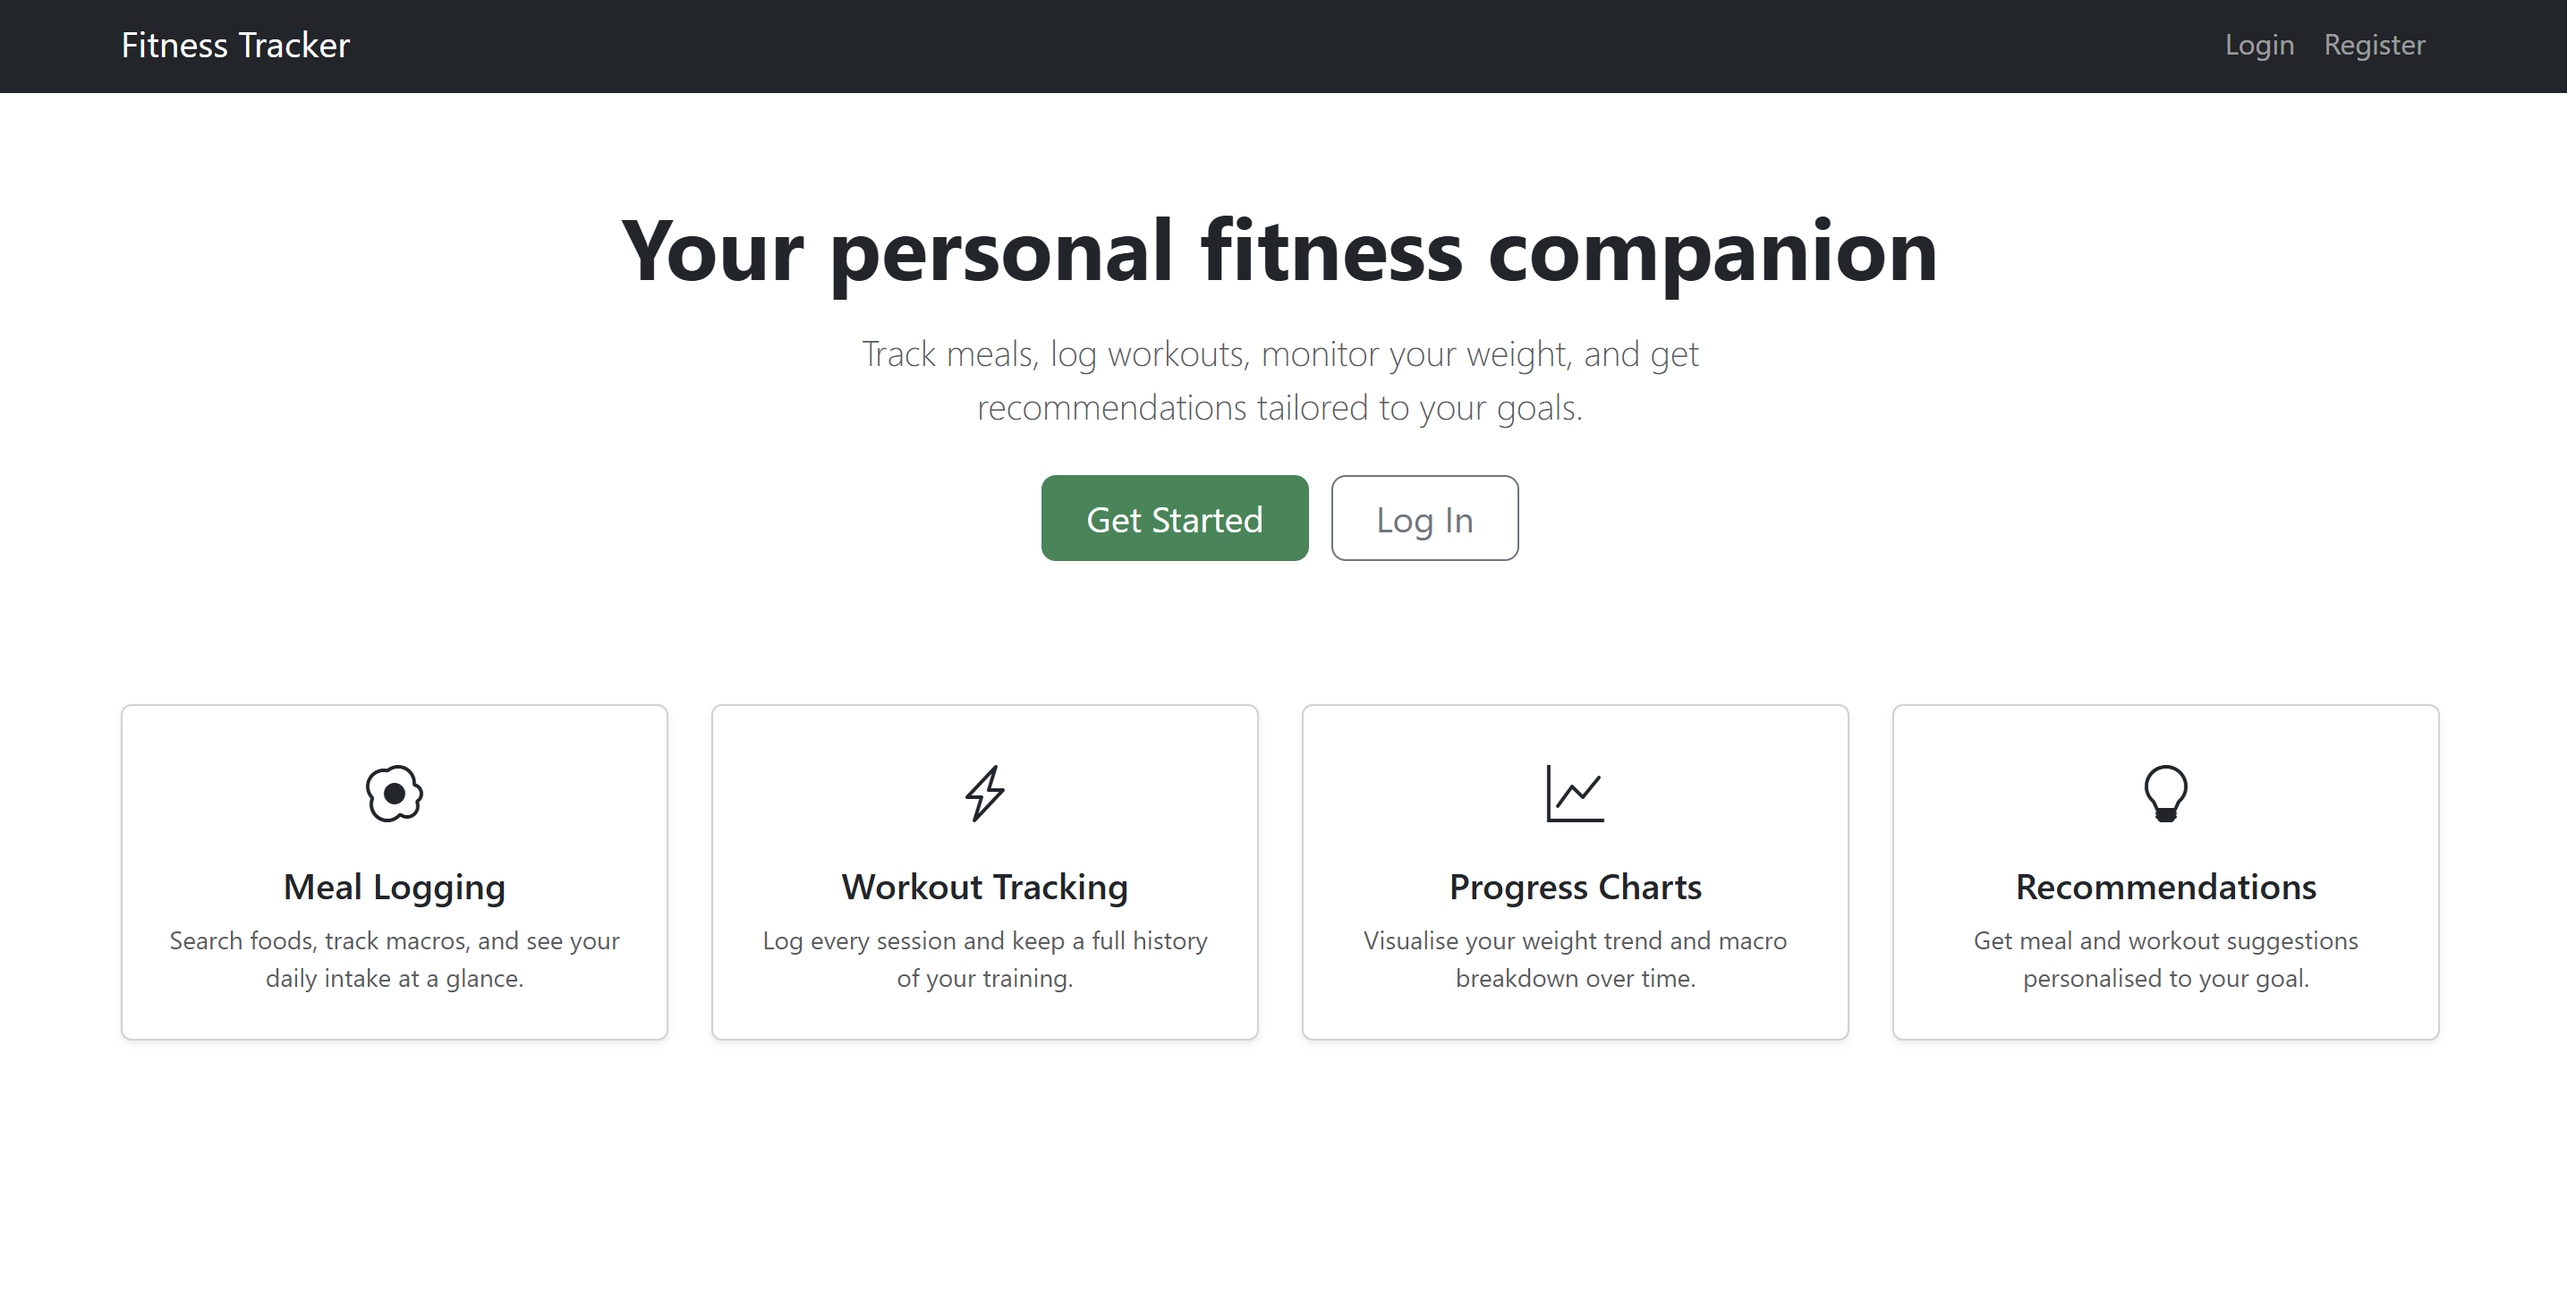
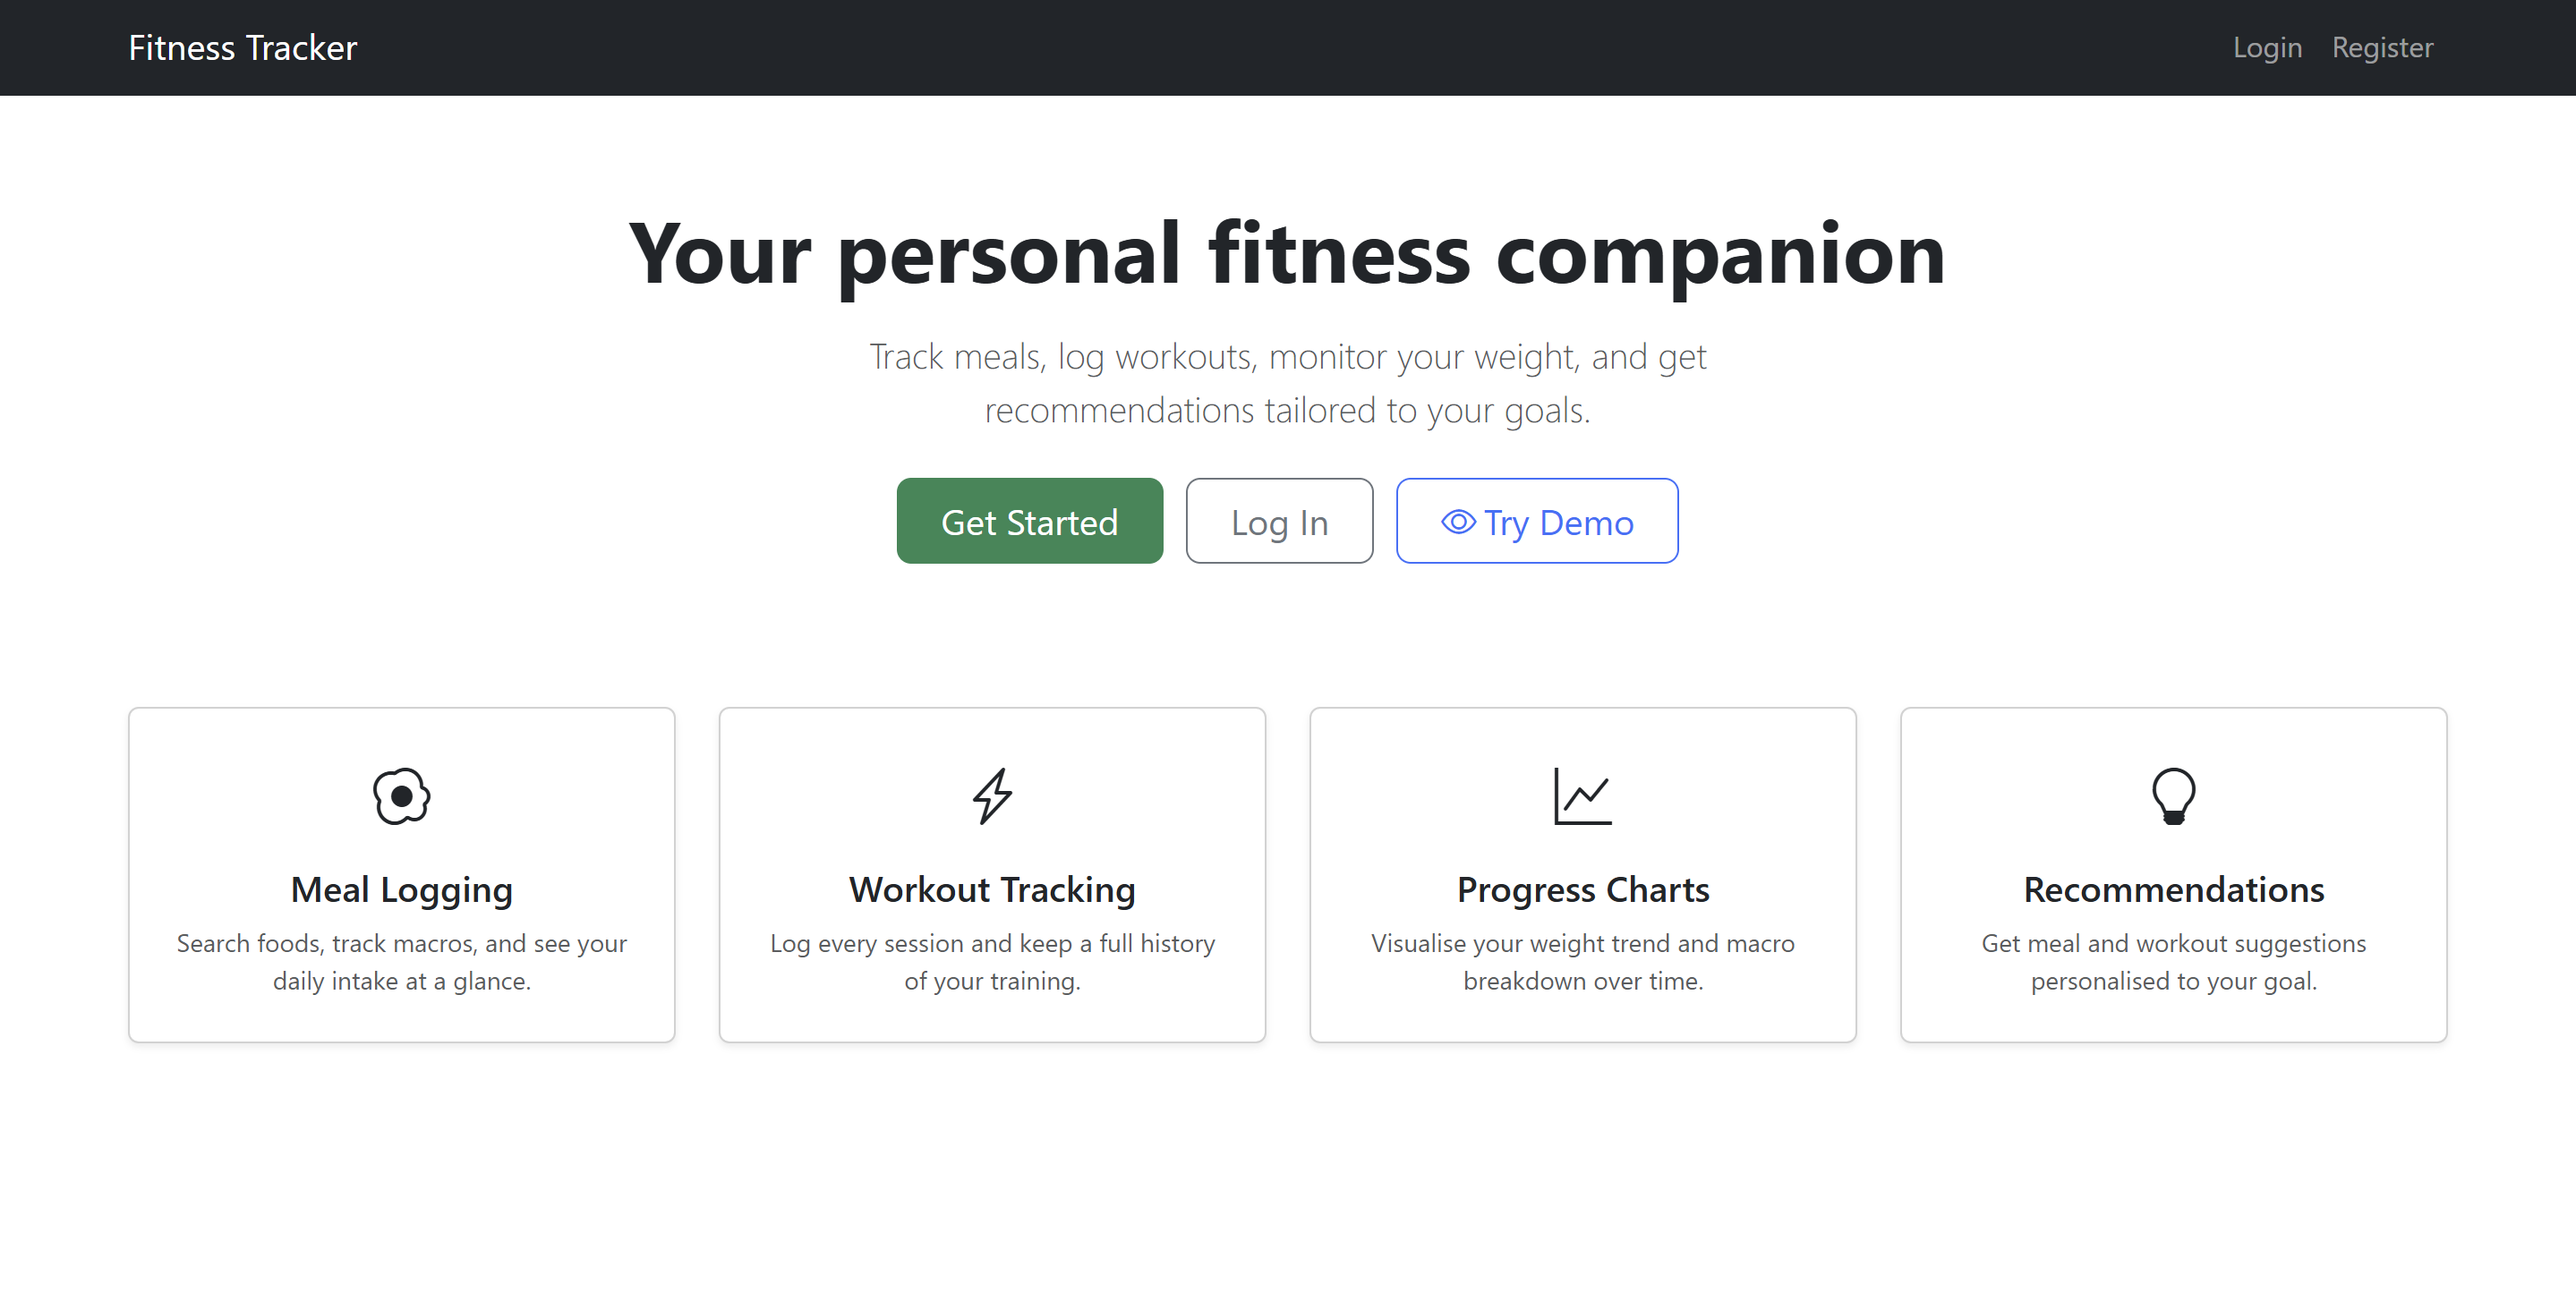
Implement demo account functionality and update seed data; add demo login and exit routes

diff --git a/app/templates/home.html b/app/templates/home.html
@@ -52,7 +52,10 @@
     Track meals, log workouts, monitor your weight, and get recommendations tailored to your goals.
   </p>
   <a href="{{ url_for('register') }}" class="btn btn-success btn-lg px-4 me-2">Get Started</a>
-  <a href="{{ url_for('login') }}" class="btn btn-outline-secondary btn-lg px-4">Log In</a>
+  <a href="{{ url_for('login') }}" class="btn btn-outline-secondary btn-lg px-4 me-2">Log In</a>
+  <a href="{{ url_for('demo_login') }}" class="btn btn-outline-primary btn-lg px-4">
+    <i class="bi bi-eye me-1"></i>Try Demo
+  </a>
 </div>
 
 <div class="row g-4 mt-2">

diff --git a/app/templates/user_dashboard.html b/app/templates/user_dashboard.html
@@ -1,6 +1,13 @@
 {% extends "base.html" %} {% block title %}Dashboard{% endblock %} {% block
 content %}
 
+{% if session.get('is_demo') %}
+<div class="alert alert-info d-flex justify-content-between align-items-center mb-4 py-2">
+  <span><i class="bi bi-eye me-2"></i><strong>Demo account</strong> — data is pre-filled for illustration. Changes won't affect anyone.</span>
+  <a href="{{ url_for('demo_exit') }}" class="btn btn-sm btn-info">Create your own account</a>
+</div>
+{% endif %}
+
 <h1 class="mb-4">Welcome, {{ user.name }}!</h1>
 
 <div class="row g-4">

diff --git a/app/templates/login.html b/app/templates/login.html
@@ -36,6 +36,16 @@
         <a href="{{ url_for('home') }}" class="btn btn-outline-secondary btn-sm">Back to Home</a>
       </div>
     </div>
+
+    <div class="card shadow-sm mt-3 border-0 bg-light">
+      <div class="card-body text-center py-3">
+        <p class="mb-2 small text-muted">Just want to look around?</p>
+        <a href="{{ url_for('demo_login') }}" class="btn btn-outline-success w-100">
+          <i class="bi bi-eye me-2"></i>Try the Demo
+        </a>
+      </div>
+    </div>
+
   </div>
 </div>
 

diff --git a/app/seed.py b/app/seed.py
@@ -1,0 +1,185 @@
+"""
+Demo account seeder.
+
+CLI usage:
+    flask seed-demo
+
+Railway usage (no shell access):
+    GET /admin/seed-demo?key=<SEED_KEY>   (set SEED_KEY env var on Railway)
+"""
+import random
+from datetime import datetime, timezone, timedelta
+from app import app, db
+from app.models import User, Meal, Workout, WeightLog
+
+DEMO_USERNAME = "demo"
+DEMO_PASSWORD = "demo1234"
+DEMO_EMAIL = "demo@fitnesstracker.app"
+
+
+# ---------------------------------------------------------------------------
+# Meal pool — realistic entries with macros per serving
+# ---------------------------------------------------------------------------
+MEALS = [
+    # (name, cal, protein, carbs, fats, meal_type)
+    ("Scrambled eggs & toast",          380, 24, 32, 14, "Breakfast"),
+    ("Oatmeal with banana",             320, 10, 58,  6, "Breakfast"),
+    ("Greek yogurt & granola",          290, 18, 38,  6, "Breakfast"),
+    ("Protein shake",                   210, 32,  8,  4, "Breakfast"),
+    ("Avocado toast & eggs",            420, 20, 36, 18, "Breakfast"),
+    ("Grilled chicken & rice",          520, 46, 52,  8, "Lunch"),
+    ("Turkey wrap",                     460, 34, 44, 12, "Lunch"),
+    ("Tuna salad sandwich",             410, 32, 38, 10, "Lunch"),
+    ("Chicken Caesar salad",            390, 38, 18, 16, "Lunch"),
+    ("Burrito bowl",                    580, 38, 64, 14, "Lunch"),
+    ("Salmon & sweet potato",           540, 42, 44, 14, "Dinner"),
+    ("Steak & roasted veg",             620, 52, 24, 28, "Dinner"),
+    ("Ground turkey pasta",             580, 44, 58, 12, "Dinner"),
+    ("Chicken stir-fry & rice",         510, 40, 52, 10, "Dinner"),
+    ("Shrimp tacos",                    490, 36, 48, 12, "Dinner"),
+    ("Cottage cheese & fruit",          180, 22, 18,  2, "Snack"),
+    ("Apple & peanut butter",           210,  6, 26, 10, "Snack"),
+    ("Protein bar",                     220, 20, 24,  6, "Snack"),
+    ("Almonds",                         170,  6,  6, 14, "Snack"),
+    ("Rice cakes & hummus",             190,  6, 28,  4, "Snack"),
+]
+
+# Heavier weekend options (push weekend average ~500 cal higher)
+WEEKEND_EXTRAS = [
+    ("Pancakes & syrup",                520, 12, 88, 14, "Breakfast"),
+    ("Bacon & egg bagel",               580, 30, 52, 22, "Breakfast"),
+    ("Burger & fries",                  880, 44, 80, 36, "Lunch"),
+    ("Pizza (2 slices)",                720, 30, 84, 24, "Dinner"),
+    ("Pasta with meat sauce",           680, 38, 72, 20, "Dinner"),
+    ("Ice cream",                       310,  5, 42, 14, "Snack"),
+    ("Chips & guac",                    380,  5, 42, 22, "Snack"),
+]
+
+WORKOUTS = [
+    ("Running",          35, 320),
+    ("Strength Training", 55, 380),
+    ("HIIT",             30, 360),
+    ("Cycling",          45, 340),
+    ("Strength Training", 60, 410),
+    ("Running",          40, 360),
+    ("Strength Training", 50, 370),
+    ("HIIT",             25, 300),
+]
+
+
+def _meal(user_id, entry, dt):
+    name, cal, prot, carbs, fats, mtype = entry
+    return Meal(
+        user_id=user_id,
+        name=name,
+        calories=cal,
+        protein=prot,
+        carbs=carbs,
+        fats=fats,
+        meal_type=mtype,
+        date=dt,
+    )
+
+
+def seed_demo():
+    """Create (or reset) the demo account with 14 days of realistic data."""
+    with app.app_context():
+        # Wipe existing demo data
+        existing = User.query.filter_by(username=DEMO_USERNAME).first()
+        if existing:
+            Meal.query.filter_by(user_id=existing.id).delete()
+            Workout.query.filter_by(user_id=existing.id).delete()
+            WeightLog.query.filter_by(user_id=existing.id).delete()
+            db.session.delete(existing)
+            db.session.commit()
+
+        user = User(
+            username=DEMO_USERNAME,
+            name="Alex",
+            email=DEMO_EMAIL,
+            age=28,
+            sex="male",
+            weight=192.0,
+            height=70.0,
+            activity_level="moderately_active",
+            fitness_goal="cutting",
+        )
+        user.set_password(DEMO_PASSWORD)
+        db.session.add(user)
+        db.session.flush()
+
+        today = datetime.now(timezone.utc).replace(
+            hour=12, minute=0, second=0, microsecond=0
+        )
+        rng = random.Random(42)  # fixed seed for reproducibility
+
+        # --- Meals (14 days) ---
+        # Design: protein ~115-125g/day (target ~139g) → protein shortfall fires
+        # Weekday cal ~1950, weekend cal ~2500 → weekend gap fires
+        weekday_plan = [
+            ("Scrambled eggs & toast",  380, 24, 32, 14, "Breakfast"),
+            ("Grilled chicken & rice",  520, 46, 52,  8, "Lunch"),
+            ("Chicken stir-fry & rice", 510, 40, 52, 10, "Dinner"),
+            ("Cottage cheese & fruit",  180, 22, 18,  2, "Snack"),
+        ]  # ~1590 cal, ~132g protein — add slight noise
+
+        for day_offset in range(14, 0, -1):
+            d = today - timedelta(days=day_offset)
+            is_weekend = d.weekday() >= 5
+
+            if is_weekend:
+                pool = WEEKEND_EXTRAS
+                entries = [
+                    rng.choice([m for m in pool if m[5] == "Breakfast"]),
+                    rng.choice([m for m in pool if m[5] == "Lunch"]),
+                    rng.choice([m for m in pool if m[5] == "Dinner"]),
+                    rng.choice([m for m in pool if m[5] == "Snack"]),
+                ]
+            else:
+                entries = list(weekday_plan)
+                # Add small calorie noise to avoid perfectly identical days
+                noise = rng.randint(-60, 60)
+                entries[0] = entries[0][:1] + (entries[0][1] + noise,) + entries[0][2:]
+
+            for i, entry in enumerate(entries):
+                hour = [7, 12, 18, 15][i]
+                dt = d.replace(hour=hour, minute=rng.randint(0, 30))
+                db.session.add(_meal(user.id, entry, dt))
+
+        # --- Workouts ---
+        # Last workout 4 days ago → cadence rule fires
+        workout_days = [14, 12, 10, 8, 6, 4]
+        for i, day_offset in enumerate(workout_days):
+            w_type, duration, cals = WORKOUTS[i % len(WORKOUTS)]
+            dt = today - timedelta(days=day_offset) - timedelta(hours=2)
+            db.session.add(Workout(
+                user_id=user.id,
+                type=w_type,
+                duration=duration,
+                calories_burned=cals,
+                date=dt,
+            ))
+
+        # --- Weight logs ---
+        # 192 → ~188 over 14 days (gradual cut, ~0.3 lbs/day with noise)
+        start_weight = 192.0
+        for day_offset in range(14, -1, -1):
+            days_in = 14 - day_offset
+            # Gradual loss + small noise
+            w = round(start_weight - (days_in * 0.28) + rng.uniform(-0.3, 0.3), 1)
+            dt = today - timedelta(days=day_offset) - timedelta(hours=6)
+            db.session.add(WeightLog(user_id=user.id, weight=w, date=dt))
+
+        db.session.commit()
+        print(f"Demo seeded — username: {DEMO_USERNAME}  password: {DEMO_PASSWORD}")
+        return user
+
+
+# Flask CLI command
+import click
+
+def register_commands(app):
+    @app.cli.command("seed-demo")
+    def seed_demo_command():
+        """Create or reset the demo account."""
+        seed_demo()

diff --git a/app/utils.py b/app/utils.py
@@ -311,12 +311,37 @@ def _rule_calorie_gap_today(user, tdee, daily):
         ),
     )
 
+def _daily_avg_macros(user_id, days=7):
+    """Average daily macro totals over the last N days that had at least one meal logged."""
+    cutoff = datetime.now(timezone.utc) - timedelta(days=days)
+    meals = Meal.query.filter(
+        Meal.user_id == user_id,
+        Meal.date >= cutoff,
+    ).all()
+    if not meals:
+        return None
+    by_day = {}
+    for m in meals:
+        day = _aware(m.date).date()
+        if day not in by_day:
+            by_day[day] = {"calories": 0, "protein": 0, "carbs": 0, "fats": 0}
+        by_day[day]["calories"] += m.calories or 0
+        by_day[day]["protein"]  += m.protein  or 0
+        by_day[day]["carbs"]    += m.carbs    or 0
+        by_day[day]["fats"]     += m.fats     or 0
+    n = len(by_day)
+    return {
+        k: round(sum(d[k] for d in by_day.values()) / n, 1)
+        for k in ("calories", "protein", "carbs", "fats")
+    }
+
+
 def _rule_protein_shortfall(user):
-    avg, _, _, _ = calculate_progress_stats(user) # avg should check avg of day, not per meal
+    avg = _daily_avg_macros(user.id)
     if not avg:
         return None
     weight_kg = (user.weight or 150) * 0.4536
-    target_p = weight_kg * 1.6
+    target_p = round(weight_kg * 1.6)
     if avg["protein"] >= target_p * 0.9:
         return None
     gap = target_p - avg["protein"]
@@ -324,7 +349,7 @@ def _rule_protein_shortfall(user):
         category="nutrition",
         severity=min(gap / target_p, 1.0),
         message=(
-            f"Protein averaging {avg['protein']:.0f}g, target {target_p:.0f}g. "
+            f"Protein averaging {avg['protein']:.0f}g/day, target {target_p}g. "
             "Front-load it at breakfast."
         ),
     )

diff --git a/app/routes.py b/app/routes.py
@@ -1,3 +1,4 @@
+import os
 from datetime import datetime, timezone
 from flask import jsonify, request, redirect, url_for, render_template, flash, session
 from flask_login import current_user, login_user, logout_user, login_required
@@ -27,6 +28,30 @@ from app.utils import (
 @app.route("/")
 def home():
     return render_template("home.html")
+
+
+@app.route("/demo-login")
+def demo_login():
+    from app.seed import DEMO_USERNAME, DEMO_PASSWORD, seed_demo
+    user = User.query.filter_by(username=DEMO_USERNAME).first()
+    if not user:
+        seed_demo()
+        user = User.query.filter_by(username=DEMO_USERNAME).first()
+    if user and user.check_password(DEMO_PASSWORD):
+        login_user(user)
+        session["is_demo"] = True
+    return redirect(url_for("user_dashboard"))
+
+
+@app.route("/admin/seed-demo")
+def admin_seed_demo():
+    """Reseed the demo account. Protected by SEED_KEY env var."""
+    key = os.environ.get("SEED_KEY")
+    if not key or request.args.get("key") != key:
+        return "Unauthorized", 403
+    from app.seed import seed_demo
+    seed_demo()
+    return "Demo account reseeded.", 200
 
 
 @app.route("/dashboard")
@@ -179,6 +204,14 @@ def logout():
     logout_user()
     flash("You have been logged out.", "info")
     return redirect(url_for("home"))
+
+
+@app.route("/demo-exit")
+def demo_exit():
+    """Log out of the demo account and go to register."""
+    logout_user()
+    session.pop("is_demo", None)
+    return redirect(url_for("register"))
 
 
 @app.route("/log_meal", methods=["GET", "POST"])

diff --git a/app/__init__.py b/app/__init__.py
@@ -9,3 +9,5 @@ login = LoginManager(app)
 login.login_view = "login"  # type: ignore
 
 from app import routes, models  # noqa: E402, F401
+from app.seed import register_commands
+register_commands(app)
